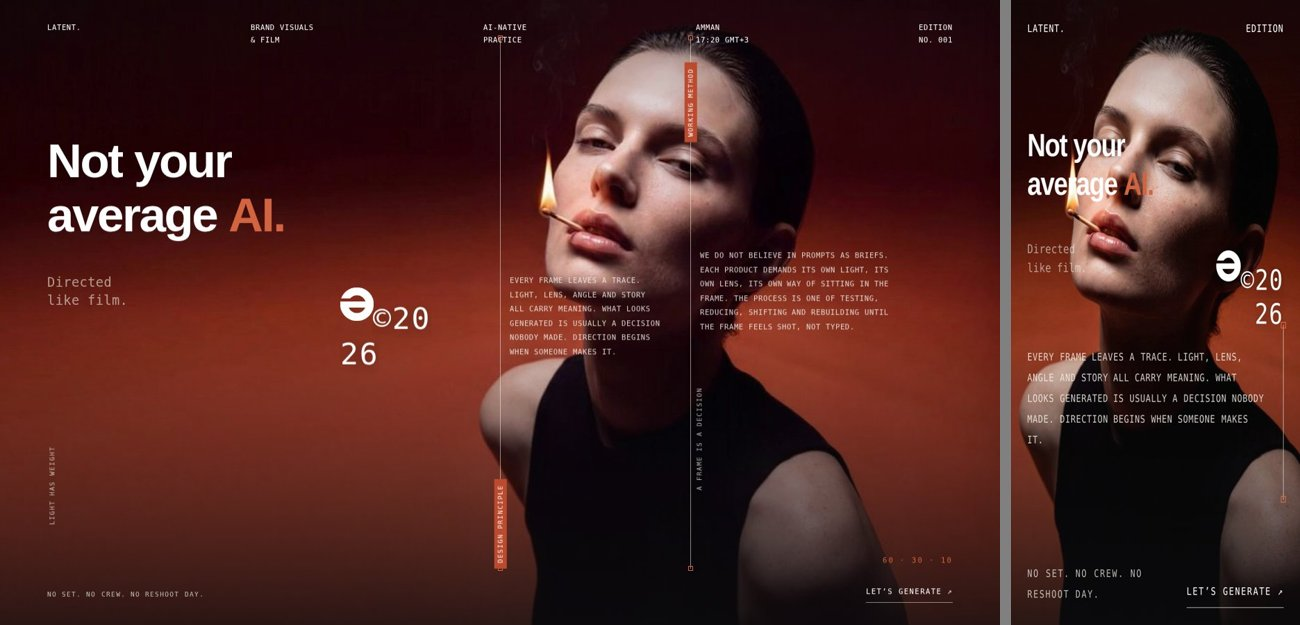
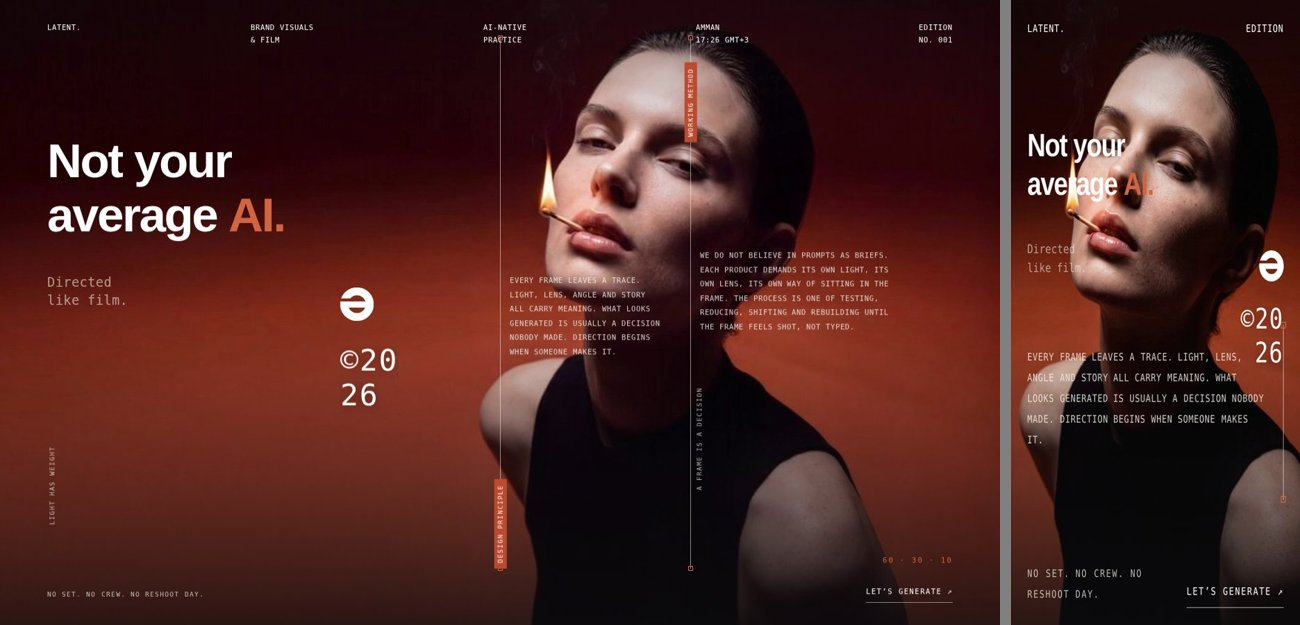
Hero plate: mark on its own line, top row items keep their width
Claude-Session: https://claude.ai/code/session_0142D8cuVtdJreCuNyu9fMo2

Changed region(s): [[0.2462, 0.4864, 0.3385, 0.6688], [0.9231, 0.3952, 1.0, 0.5776]]

diff --git a/latent-v3d/index.html b/latent-v3d/index.html
@@ -2416,6 +2416,9 @@ html.pg-snap{scroll-snap-type:y proximity}
 @media(max-width:820px){.he-head{font-size:clamp(30px,8.8vw,40px);top:21%}.he-sub{top:39%}.he-ratio{display:none;font-size:11px}}
 .he-top span{white-space:nowrap}
 @media(max-width:820px){.he-year{text-align:right}.he-logo{margin-left:auto}}
+.he-year .hm:first-child{display:block;margin-bottom:.25em}
+.he-top span{flex:0 0 auto}
+@media(max-width:820px){.he-year .hm:first-child{margin-left:auto;width:max-content}}
 </style>
 </head>
 <body>

diff --git a/latent-v3e/index.html b/latent-v3e/index.html
@@ -2416,6 +2416,9 @@ html.pg-snap{scroll-snap-type:y proximity}
 @media(max-width:820px){.he-head{font-size:clamp(30px,8.8vw,40px);top:21%}.he-sub{top:39%}.he-ratio{display:none;font-size:11px}}
 .he-top span{white-space:nowrap}
 @media(max-width:820px){.he-year{text-align:right}.he-logo{margin-left:auto}}
+.he-year .hm:first-child{display:block;margin-bottom:.25em}
+.he-top span{flex:0 0 auto}
+@media(max-width:820px){.he-year .hm:first-child{margin-left:auto;width:max-content}}
 </style>
 </head>
 <body>

diff --git a/latent-v3-src/v3_css8.css b/latent-v3-src/v3_css8.css
@@ -697,3 +697,6 @@ html.pg-snap{scroll-snap-type:y proximity}
 @media(max-width:820px){.he-head{font-size:clamp(30px,8.8vw,40px);top:21%}.he-sub{top:39%}.he-ratio{display:none;font-size:11px}}
 .he-top span{white-space:nowrap}
 @media(max-width:820px){.he-year{text-align:right}.he-logo{margin-left:auto}}
+.he-year .hm:first-child{display:block;margin-bottom:.25em}
+.he-top span{flex:0 0 auto}
+@media(max-width:820px){.he-year .hm:first-child{margin-left:auto;width:max-content}}
